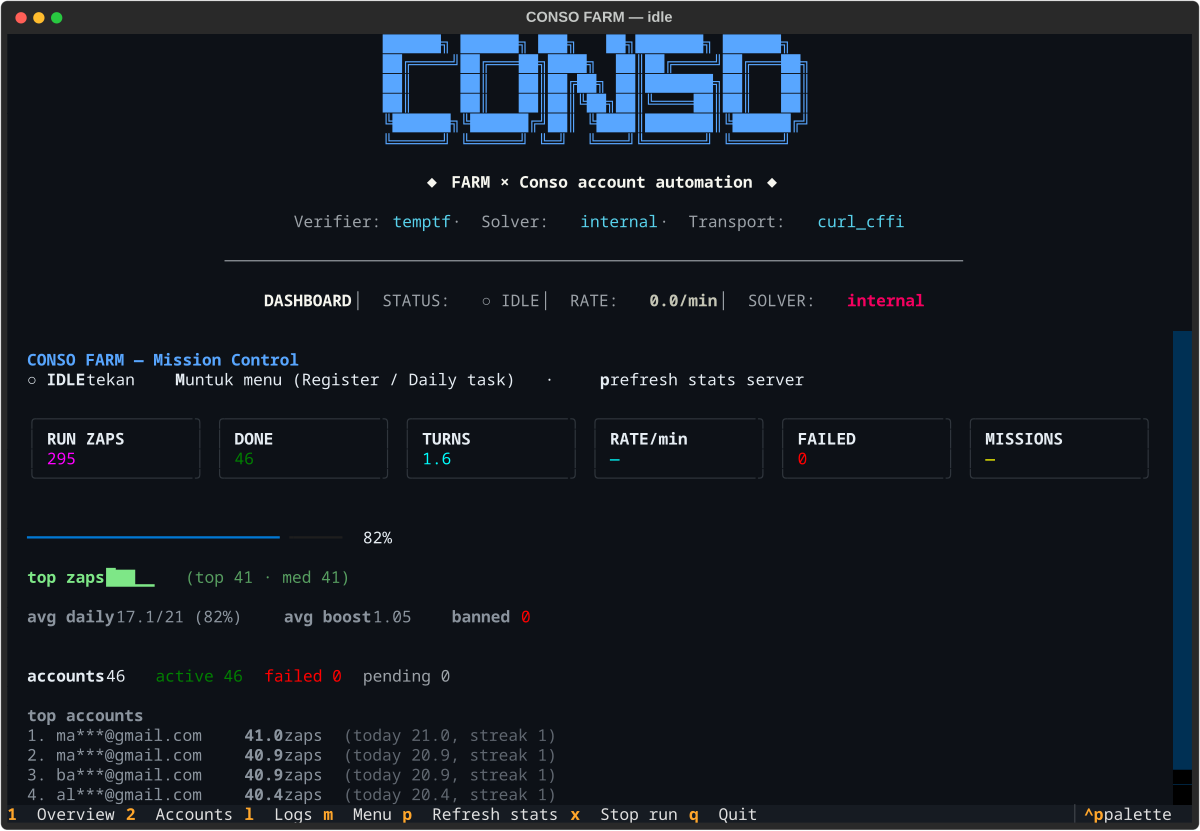
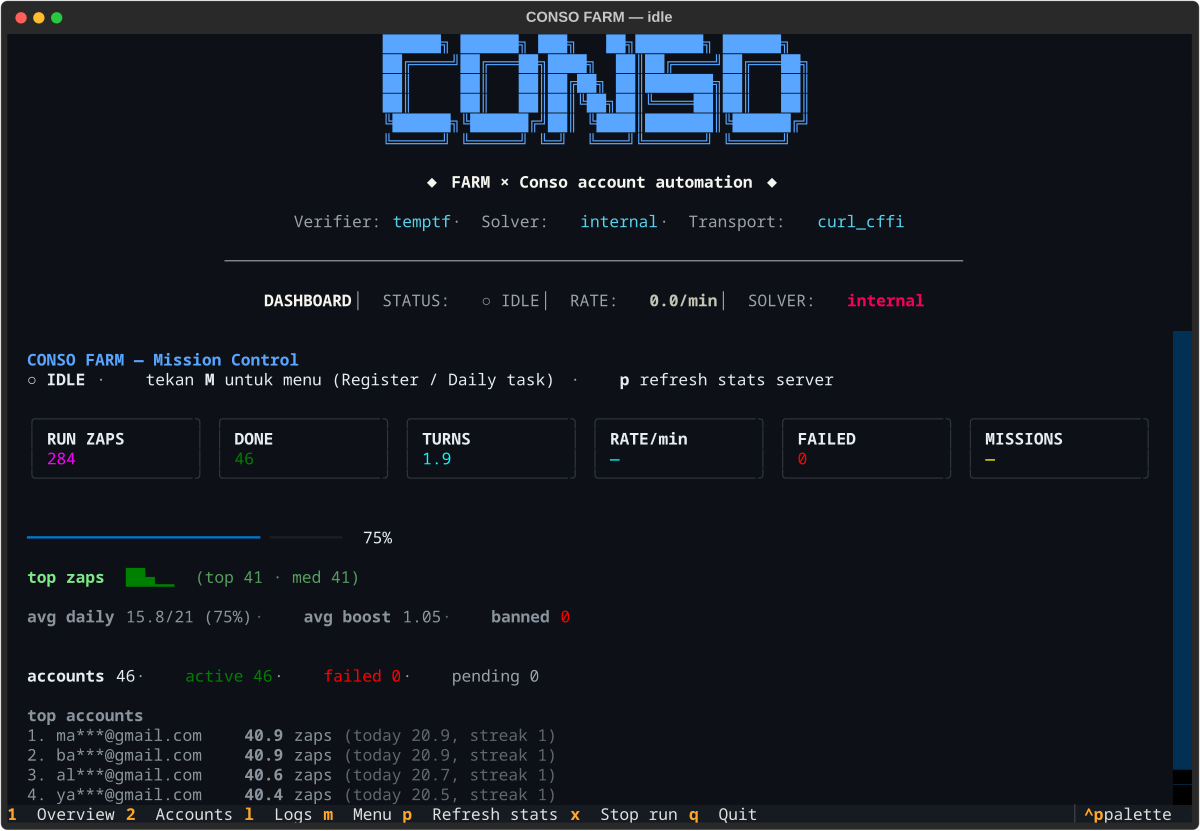
TUI Overview: fix markup spacing + clearer separators
Textual strips a space that follows a closing tag ([/b]), so labels ran into
their values (solverCamoufox, accounts46, 41.0zaps). Every label/value and
field is now joined with an explicit separator rendered inside the tag
([dim]  ·  [/dim]) and trailing spaces are kept inside the tags. Re-rendered
the README screenshots.

diff --git a/src/conso/tui/app.py b/src/conso/tui/app.py
@@ -84,13 +84,18 @@ class OverviewView(VerticalScroll):
     def _render_running(self, st, b) -> None:
         m = st.metrics()
         counts = st.account_counts()
+        SEP = "[dim]  ·  [/dim]"   # space kept INSIDE the tag (trailing space
+        #                            after [/tag] is stripped by Textual markup)
         eta = ""
         if b.rate > 0 and b.target > b.done:
-            eta = f"   [dim]ETA {(b.target - b.done) / b.rate:.1f} min[/dim]"
-        self.query_one("#statusline", Static).update(
-            f"[b green]● RUNNING[/b green]  {b.done}/{b.target} done  "
-            f"{b.failed} failed  {b.elapsed:.0f}s{eta}   [dim]x = stop[/dim]"
-        )
+            eta = f"ETA {(b.target - b.done) / b.rate:.1f} min"
+        bits = [f"[b green]● RUNNING[/b green]", f"{b.done}/{b.target} done",
+                f"{b.failed} failed", f"{b.elapsed:.0f}s"]
+        if eta:
+            bits.append(eta)
+        bits.append("[dim]x = stop[/dim]")
+        self.query_one("#statusline", Static).update(SEP.join(bits))
+
         tiles = list(self.query(Metric))
         for tile, v in zip(tiles, [
             f"{st.run_zaps:.2f}", f"{b.done}/{b.target}",
@@ -101,38 +106,42 @@ class OverviewView(VerticalScroll):
         pct = (b.done / b.target * 100) if b.target else 0.0
         self.query_one("#progress", ProgressBar).update(total=100, progress=min(100, pct))
 
+        spark = sparkline(st.zaps_history, 44) or "·" * 20
         self.query_one("#spark", Static).update(
-            f"[b]zaps/min[/b] {sparkline(st.zaps_history, 44)}  [dim](avg {b.rate:.1f})[/dim]"
+            f"[b]zaps/min[/b]  [green]{spark}[/green]  [dim](avg {b.rate:.1f})[/dim]"
         )
-        self.query_one("#detail", Static).update(
-            f"[b]solver[/b] {b.solver or '—'}   [b]referral[/b] {b.referral or '—'}   "
-            f"[b]elapsed[/b] {b.elapsed:.0f}s   [b]run zaps[/b] {st.run_zaps:.2f}"
-        )
+        self.query_one("#detail", Static).update(SEP.join([
+            f"[b]solver [/b][cyan]{b.solver or '—'}[/cyan]",
+            f"[b]referral [/b][cyan]{b.referral or '—'}[/cyan]",
+            f"[b]elapsed [/b]{b.elapsed:.0f}s",
+            f"[b]run zaps [/b][magenta]{st.run_zaps:.2f}[/magenta]",
+        ]))
         if st.platform_zaps:
-            parts = [f"[b]{p}[/b] {z:.1f}[dim]({st.platform_turns.get(p, 0)}t)[/dim]"
+            parts = [f"[b]{p} [/b]{z:.1f} [dim]({st.platform_turns.get(p, 0)}t)[/dim]"
                      for p, z in sorted(st.platform_zaps.items(), key=lambda x: -x[1])]
-            self.query_one("#platforms", Static).update("[b]platforms[/b] " + "  ".join(parts))
+            self.query_one("#platforms", Static).update("[b]platforms [/b]" + SEP.join(parts))
         else:
-            self.query_one("#platforms", Static).update("[b]platforms[/b] —")
-        self.query_one("#counts", Static).update(
-            f"[b]accounts[/b] {counts.get('total', 0)}  "
-            f"[green]active {counts.get('active', 0)}[/green]  "
-            f"[yellow]running {counts.get('running', 0)}[/yellow]  "
-            f"[red]failed {counts.get('failed', 0)}[/red]"
-        )
+            self.query_one("#platforms", Static).update("[b]platforms [/b][dim]—[/dim]")
+        self.query_one("#counts", Static).update(SEP.join([
+            f"[b]accounts [/b]{counts.get('total', 0)}",
+            f"[green]active {counts.get('active', 0)}[/green]",
+            f"[yellow]running {counts.get('running', 0)}[/yellow]",
+            f"[red]failed {counts.get('failed', 0)}[/red]",
+        ]))
         if st.failed_reasons:
-            reasons = "  ".join(f"{k} [red]×{v}[/red]" for k, v in
-                                sorted(st.failed_reasons.items(), key=lambda x: -x[1])[:4])
-            self.query_one("#top", Static).update(f"[b red]errors[/b red] {reasons}")
+            reasons = SEP.join(f"{k} [red]×{v}[/red]" for k, v in
+                               sorted(st.failed_reasons.items(), key=lambda x: -x[1])[:4])
+            self.query_one("#top", Static).update(f"[b red]errors [/b red]" + reasons)
         else:
             self.query_one("#top", Static).update("")
 
     # -- IDLE: portfolio health --------------------------------------------
     def _render_idle(self, st, _b) -> None:
+        SEP = "[dim]  ·  [/dim]"
         p = st.portfolio()
         self.query_one("#statusline", Static).update(
-            "[b]○ IDLE[/b]   tekan [b]M[/b] untuk menu (Register / Daily task)   ·   "
-            "[b]p[/b] refresh stats server"
+            f"[b]○ IDLE [/b]{SEP}tekan [b]M [/b]untuk menu (Register / Daily task) "
+            f"{SEP}[b]p [/b]refresh stats server"
         )
         tiles = list(self.query(Metric))
         for tile, v in zip(tiles, [
@@ -146,26 +155,28 @@ class OverviewView(VerticalScroll):
         self.query_one("#progress", ProgressBar).update(total=100, progress=cap_pct)
 
         tops = [a.total_zaps for a in p["top"]]
+        med = (sorted(tops)[len(tops) // 2] if tops else 0)
         self.query_one("#spark", Static).update(
-            f"[b]top zaps[/b] {sparkline(tops, 44)}  "
-            f"[dim](top {tops[0]:.0f} · med {(sorted(tops)[len(tops)//2] if tops else 0):.0f})[/dim]"
+            f"[b]top zaps[/b]  [green]{sparkline(tops, 44)}[/green]  "
+            f"[dim](top {tops[0]:.0f} · med {med:.0f})[/dim]"
+            if tops else "[b]top zaps[/b]  [dim]—[/dim]"
         )
-        self.query_one("#detail", Static).update(
-            f"[b]avg daily[/b] {p['avg_daily']:.1f}/21 ({cap_pct:.0f}%)   "
-            f"[b]avg boost[/b] {p['avg_boost']:.2f}   "
-            f"[b]banned[/b] [red]{p['banned']}[/red]"
-        )
+        self.query_one("#detail", Static).update(SEP.join([
+            f"[b]avg daily [/b]{p['avg_daily']:.1f}/21 ({cap_pct:.0f}%)",
+            f"[b]avg boost [/b]{p['avg_boost']:.2f}",
+            f"[b]banned [/b][red]{p['banned']}[/red]",
+        ]))
         self.query_one("#platforms", Static).update("")
 
         counts = st.account_counts()
-        self.query_one("#counts", Static).update(
-            f"[b]accounts[/b] {counts.get('total', 0)}  "
-            f"[green]active {counts.get('active', 0)}[/green]  "
-            f"[red]failed {counts.get('failed', 0)}[/red]  "
-            f"[dim]pending {counts.get('pending', 0)}[/dim]"
-        )
+        self.query_one("#counts", Static).update(SEP.join([
+            f"[b]accounts [/b]{counts.get('total', 0)}",
+            f"[green]active {counts.get('active', 0)}[/green]",
+            f"[red]failed {counts.get('failed', 0)}[/red]",
+            f"[dim]pending {counts.get('pending', 0)}[/dim]",
+        ]))
         if p["top"] and p["top"][0].total_zaps > 0:
-            lines = [f"  {i+1}. {mask_email(a.email)}  [b]{a.total_zaps:.1f}[/b] zaps "
+            lines = [f"  {i+1}. {mask_email(a.email)}  [b]{a.total_zaps:.1f} [/b]zaps "
                      f"[dim](today {a.daily_zaps:.1f}, streak {a.streak})[/dim]"
                      for i, a in enumerate(p["top"])]
             self.query_one("#top", Static).update("[b]top accounts[/b]\n" + "\n".join(lines))
